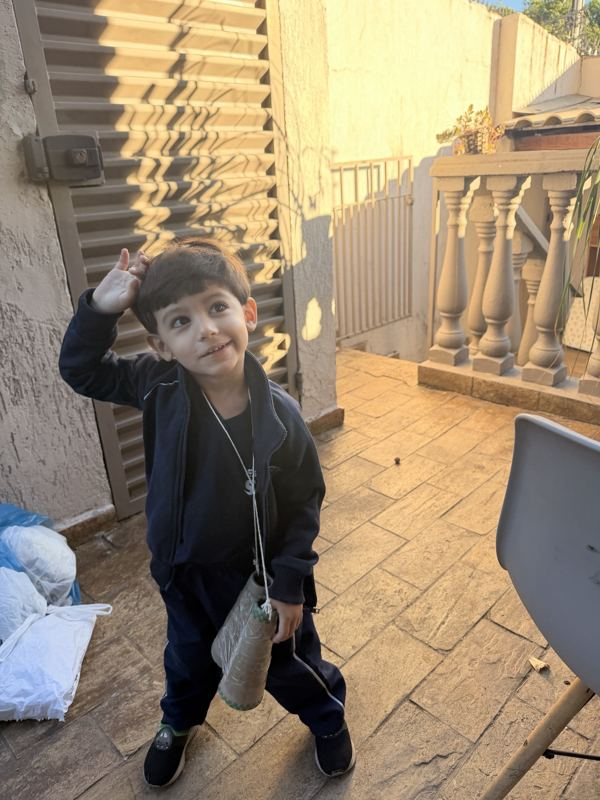
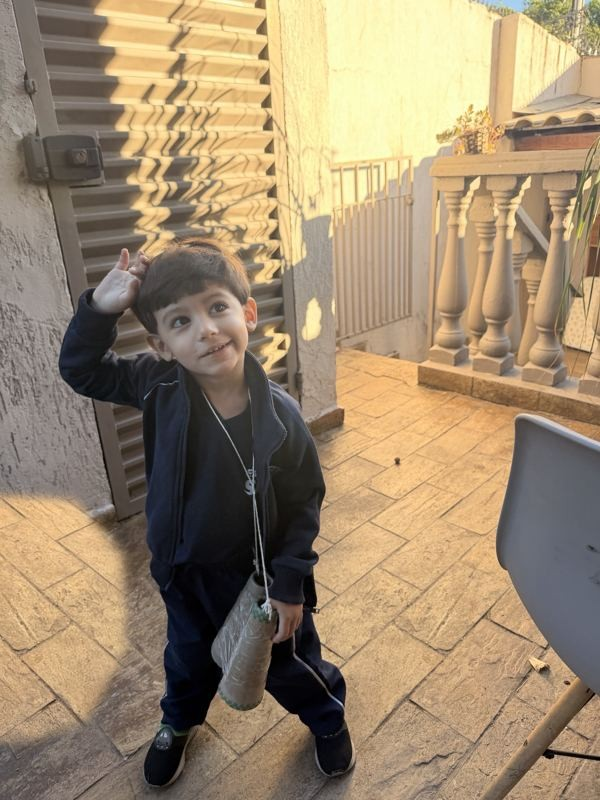
Jogo: colisão com cano corrigida; prazo 21/10; foto v35 limpa

Changed region(s): [[0.0, 0.5938, 0.24, 0.9375]]

diff --git a/index.html b/index.html
@@ -121,7 +121,7 @@ input:focus,textarea:focus{outline:3px solid var(--yellow)}
 .gal img:nth-child(odd){transform:rotate(1.2deg)}.gal img:nth-child(even){transform:rotate(-1.2deg)}
 
 /* jogo */
-#game{display:block;width:100%;aspect-ratio:16/10;background:var(--sky2);border:4px solid var(--ink);image-rendering:pixelated;touch-action:manipulation}
+#game{display:block;width:100%;aspect-ratio:16/10;background:var(--sky2);border:4px solid var(--ink);image-rendering:pixelated;touch-action:none;-webkit-user-select:none;user-select:none}
 .score{display:flex;justify-content:space-between;font-size:11px;margin:10px 0 0;color:#333}
 #play{background:var(--green);color:#fff;padding:14px;font-size:11px;box-shadow:0 5px 0 #1d7a37;margin-top:12px;width:100%}
 
@@ -224,7 +224,7 @@ footer{text-align:center;color:#fff;font-size:10px;padding:20px 0 40px;text-shad
       <label>Recado para o Vitor (opcional) <textarea name="mensagem" rows="2" placeholder="Ele vai adorar ler!"></textarea></label>
       <div id="errBox" class="errbox hide"><p id="errMsg"></p><a id="errWa" class="btn wa hide" target="_blank" rel="noopener">💬 Avisar pelo WhatsApp</a></div>
       <button id="submit" class="px" type="submit">ENVIAR RESPOSTA ▶</button>
-      <p class="note">Por favor, confirme até <b>17 de outubro</b>. Pode responder de novo se mudar algo.</p>
+      <p class="note">Por favor, confirme até <b>21 de outubro</b>. Pode responder de novo se mudar algo.</p>
     </form>
     <div id="done" class="ok hide">
       <div class="big" id="doneEmoji">🎉</div>
@@ -614,9 +614,15 @@ function confetti(n){ const cols=['#e52521','#fbd000','#049cd8','#43b047','#fff'
   function loop(now){
     if(state!=='play'&&state!=='count'&&state!=='win') return;
     const dt=Math.min(2,(now-lastT)/16.7); lastT=now;
-    if(state==='count'){ draw(now); const c=3-Math.floor((now-time0)/700); countTxt(c>0?String(c):'JÁ!'); if(now-time0>2600){ state='play'; time0=now; } requestAnimationFrame(loop); return; }
+    if(state==='count'){ draw(now); const c=2-Math.floor((now-time0)/600); countTxt(c>0?String(c):'JÁ!'); if(now-time0>1500){ state='play'; time0=now; } requestAnimationFrame(loop); return; }
     if(state==='win'){ finishT+=dt; P.vy+=0.4*dt; P.y=Math.min(G-P.h,P.y+P.vy*dt); if(P.x<flag.x+120) P.x+=1.6*dt; if(Math.random()<0.15) burst(flag.x+40+Math.random()*160,G-120-Math.random()*80,['#fbd000','#e52521','#049cd8','#43b047'][Math.floor(Math.random()*4)],12,2.5); step(dt); draw(now); if(finishT>150){ end(true); return; } requestAnimationFrame(loop); return; }
 
+    { const n=dt>1.15?2:1; for(let k=0;k<n;k++){ phys(dt/n,now); if(state==="over") return; } }
+    if(P.x>flag.x){ state='win'; score+=100+Math.max(0,Math.round(75-(now-time0)/1000))*5+(lives>=5?100:0); if(lives>=5) popText('SEM LEVAR DANO +100',P.x-40,P.y-30,'#fbd000'); updHud(); SFX.win(); confetti(80); P.vy=-6; }
+    cam=Math.max(0,Math.min(P.x-150,LEN-W));
+    draw(now); if(state==='play'||state==='win') requestAnimationFrame(loop);
+  }
+  function phys(dt,now){
     // jogador
     const speed=2.6+Math.min(1,(P.x/LEN))*0.8+(star>0?0.8:0);
     P.x+=speed*dt; P.f+=speed*dt*0.12;
@@ -626,8 +632,8 @@ function confetti(n){ const cols=['#e52521','#fbd000','#049cd8','#43b047','#fff'
     P.vy+=0.52*dt; if(P.vy>10) P.vy=10;
     // horizontal x sólidos
     const sol=pipes.concat(blocks);
-    let blocked=false; for(const s of sol){ if(ov(P,s) && P.y+P.h>s.y+8 && P.y<s.y+s.h-6){ P.x=s.x-P.w; blocked=true; } }
-    P.stuck = blocked && P.on ? (P.stuck||0)+dt : 0; if(P.stuck>40){ jumpBuf=8; hold=true; setTimeout(()=>{ hold=false; },260); P.stuck=0; }
+    let blocked=false; for(const s of sol){ if(ov(P,s) && P.y+P.h>s.y+2 && P.y<s.y+s.h-4){ P.x=s.x-P.w-0.5; blocked=true; } }
+    P.stuck = blocked && P.on ? (P.stuck||0)+dt : 0; if(P.stuck>18){ jumpBuf=8; hold=true; setTimeout(()=>{ hold=false; },280); P.stuck=0; }
     // vertical
     const wasOn=P.on; P.y+=P.vy*dt; P.on=false;
     if(P.y+P.h>=G){ P.y=G-P.h; if(P.vy>3&&!wasOn) burst(P.x+9,G-2,'#d9c3a0',5,1); P.vy=0; P.on=true; }
@@ -635,7 +641,7 @@ function confetti(n){ const cols=['#e52521','#fbd000','#049cd8','#43b047','#fff'
     for(const s of sol){ if(!ov(P,s)) continue;
       if(P.vy>=0 && P.y+P.h-P.vy*dt-1<=s.y){ P.y=s.y-P.h; P.vy=0; P.on=true; }
       else if(P.vy<0 && s.t){ P.y=s.y+s.h; P.vy=1; hitBlock(s); }
-      else if(P.vy<0){ P.y=s.y+s.h; P.vy=1; } }
+      else if(P.vy<0){ if(P.y+P.h-s.y<12){ P.y=s.y-P.h; P.vy=0; P.on=true; } else { P.x=s.x-P.w-0.5; } } }
     if(inv>0) inv-=dt; if(star>0){ star-=dt; if(Math.random()<0.5) parts.push({x:P.x+Math.random()*18,y:P.y+Math.random()*28,vx:0,vy:-0.5,l:20,c:['#fbd000','#fff','#ff7ab6','#7ad7ff'][Math.floor(Math.random()*4)]}); }
     // moedas
     for(const c of coins){ if(!c.got && ov({x:P.x-6,y:P.y-6,w:P.w+12,h:P.h+12},c)){ c.got=true; coinsN++; score+=10; updHud(); SFX.coin(); burst(c.x+8,c.y+10,'#fbd000',8,1.6); popText('+10',c.x,c.y); } }
@@ -649,9 +655,6 @@ function confetti(n){ const cols=['#e52521','#fbd000','#049cd8','#43b047','#fff'
         else if(P.vy>0 && P.y+P.h-e.y<18){ e.alive=false; e.sq=e.bee?0:40; P.vy=-7.5; combo++; comboT=90; const pts=20*combo; score+=pts; stomps++; SFX.jump(); burst(e.x+12,e.y,'#fff',10,2); popText(combo>1?`COMBO x${combo} +${pts}`:'+20',e.x,e.y-10,combo>1?'#ff7ab6':'#fbd000'); if(combo>1) SFX.coin(); }
         else hurt(); updHud(); if(state==='over') return; } }
     step(dt);
-    if(P.x>flag.x){ state='win'; score+=100+Math.max(0,Math.round(75-(now-time0)/1000))*5+(lives>=5?100:0); if(lives>=5) popText('SEM LEVAR DANO +100',P.x-40,P.y-30,'#fbd000'); updHud(); SFX.win(); confetti(80); P.vy=-6; }
-    cam=Math.max(0,Math.min(P.x-150,LEN-W));
-    draw(now); if(state==='play'||state==='win') requestAnimationFrame(loop);
   }
   function step(dt){ parts.forEach(p=>{p.x+=p.vx*dt; p.y+=p.vy*dt; p.vy+=0.12*dt; p.l-=dt;}); parts=parts.filter(p=>p.l>0); texts.forEach(t=>{t.y-=0.6*dt; t.l-=dt;}); texts=texts.filter(t=>t.l>0); blocks.forEach(b=>{ if(b.bump>0) b.bump-=dt; }); if(shake>0) shake-=dt; }
   function hitBlock(b){ b.bump=8; if(b.used||b.t==='b'){ burst(b.x+14,b.y+28,'#c8623b',4,1); return; }
@@ -724,7 +727,7 @@ function confetti(n){ const cols=['#e52521','#fbd000','#049cd8','#43b047','#fff'
     if(star>0){ x.fillStyle='#fbd000'; x.fillText('★ '+Math.ceil(star/60),W/2-60,21); }
     if(combo>1&&comboT>0){ x.fillStyle='#ff7ab6'; x.font='11px "Press Start 2P"'; x.textAlign='center'; x.fillText('COMBO x'+combo,W/2,46); } }
   function heart(hx,hy){ x.fillRect(hx+1,hy,3,2); x.fillRect(hx+6,hy,3,2); x.fillRect(hx,hy+2,10,3); x.fillRect(hx+1,hy+5,8,2); x.fillRect(hx+3,hy+7,4,2); }
-  function countTxt(t){ x.fillStyle='rgba(27,27,47,.35)'; x.fillRect(0,0,W,H); x.font='28px "Press Start 2P"'; x.textAlign='center'; x.fillStyle='#1b1b2f'; x.fillText(t,W/2+3,H/2+3); x.fillStyle='#fbd000'; x.fillText(t,W/2,H/2); }
+  function countTxt(t){ x.fillStyle='rgba(27,27,47,.35)'; x.fillRect(0,0,W,H); x.font='28px "Press Start 2P"'; x.textAlign='center'; x.fillStyle='#1b1b2f'; x.fillText(t,W/2+3,H/2+3); x.fillStyle='#fbd000'; x.fillText(t,W/2,H/2); x.font='9px "Press Start 2P"'; x.fillStyle='#fff'; x.fillText('TOQUE NA TELA PARA PULAR',W/2,H/2+40); }
 
   function end(won){ state='over'; hold=false; window.__inGame=false; setTimeout(()=>Music.play('menu'),won?2500:1500); $('#play').textContent='▶ JOGAR DE NOVO';
     const best=Math.max(best0, +localStorage.getItem('vitor4_best2')||0, score); localStorage.setItem('vitor4_best2',best); $('#best').textContent=best;
